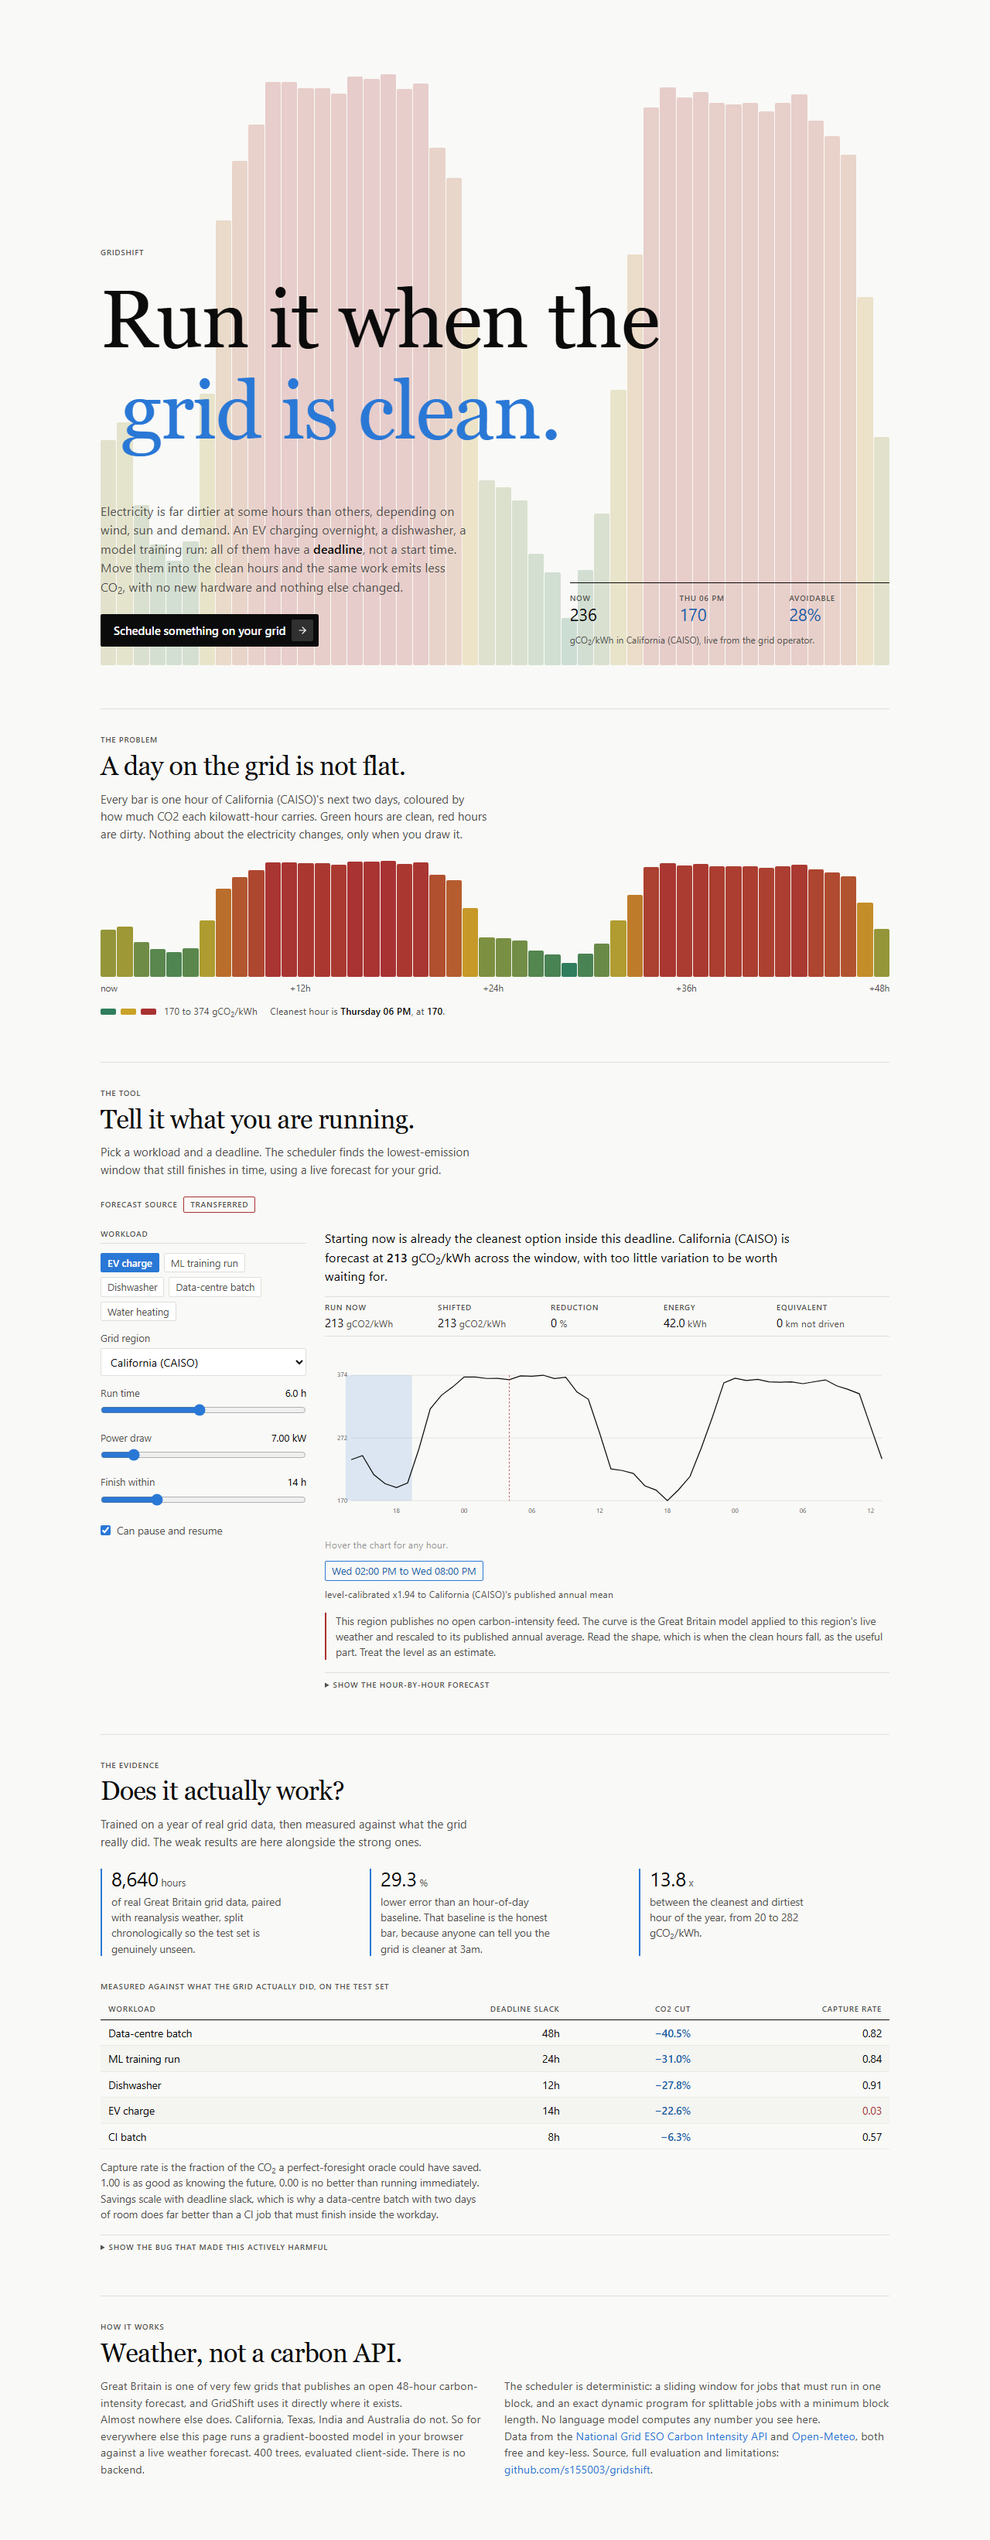
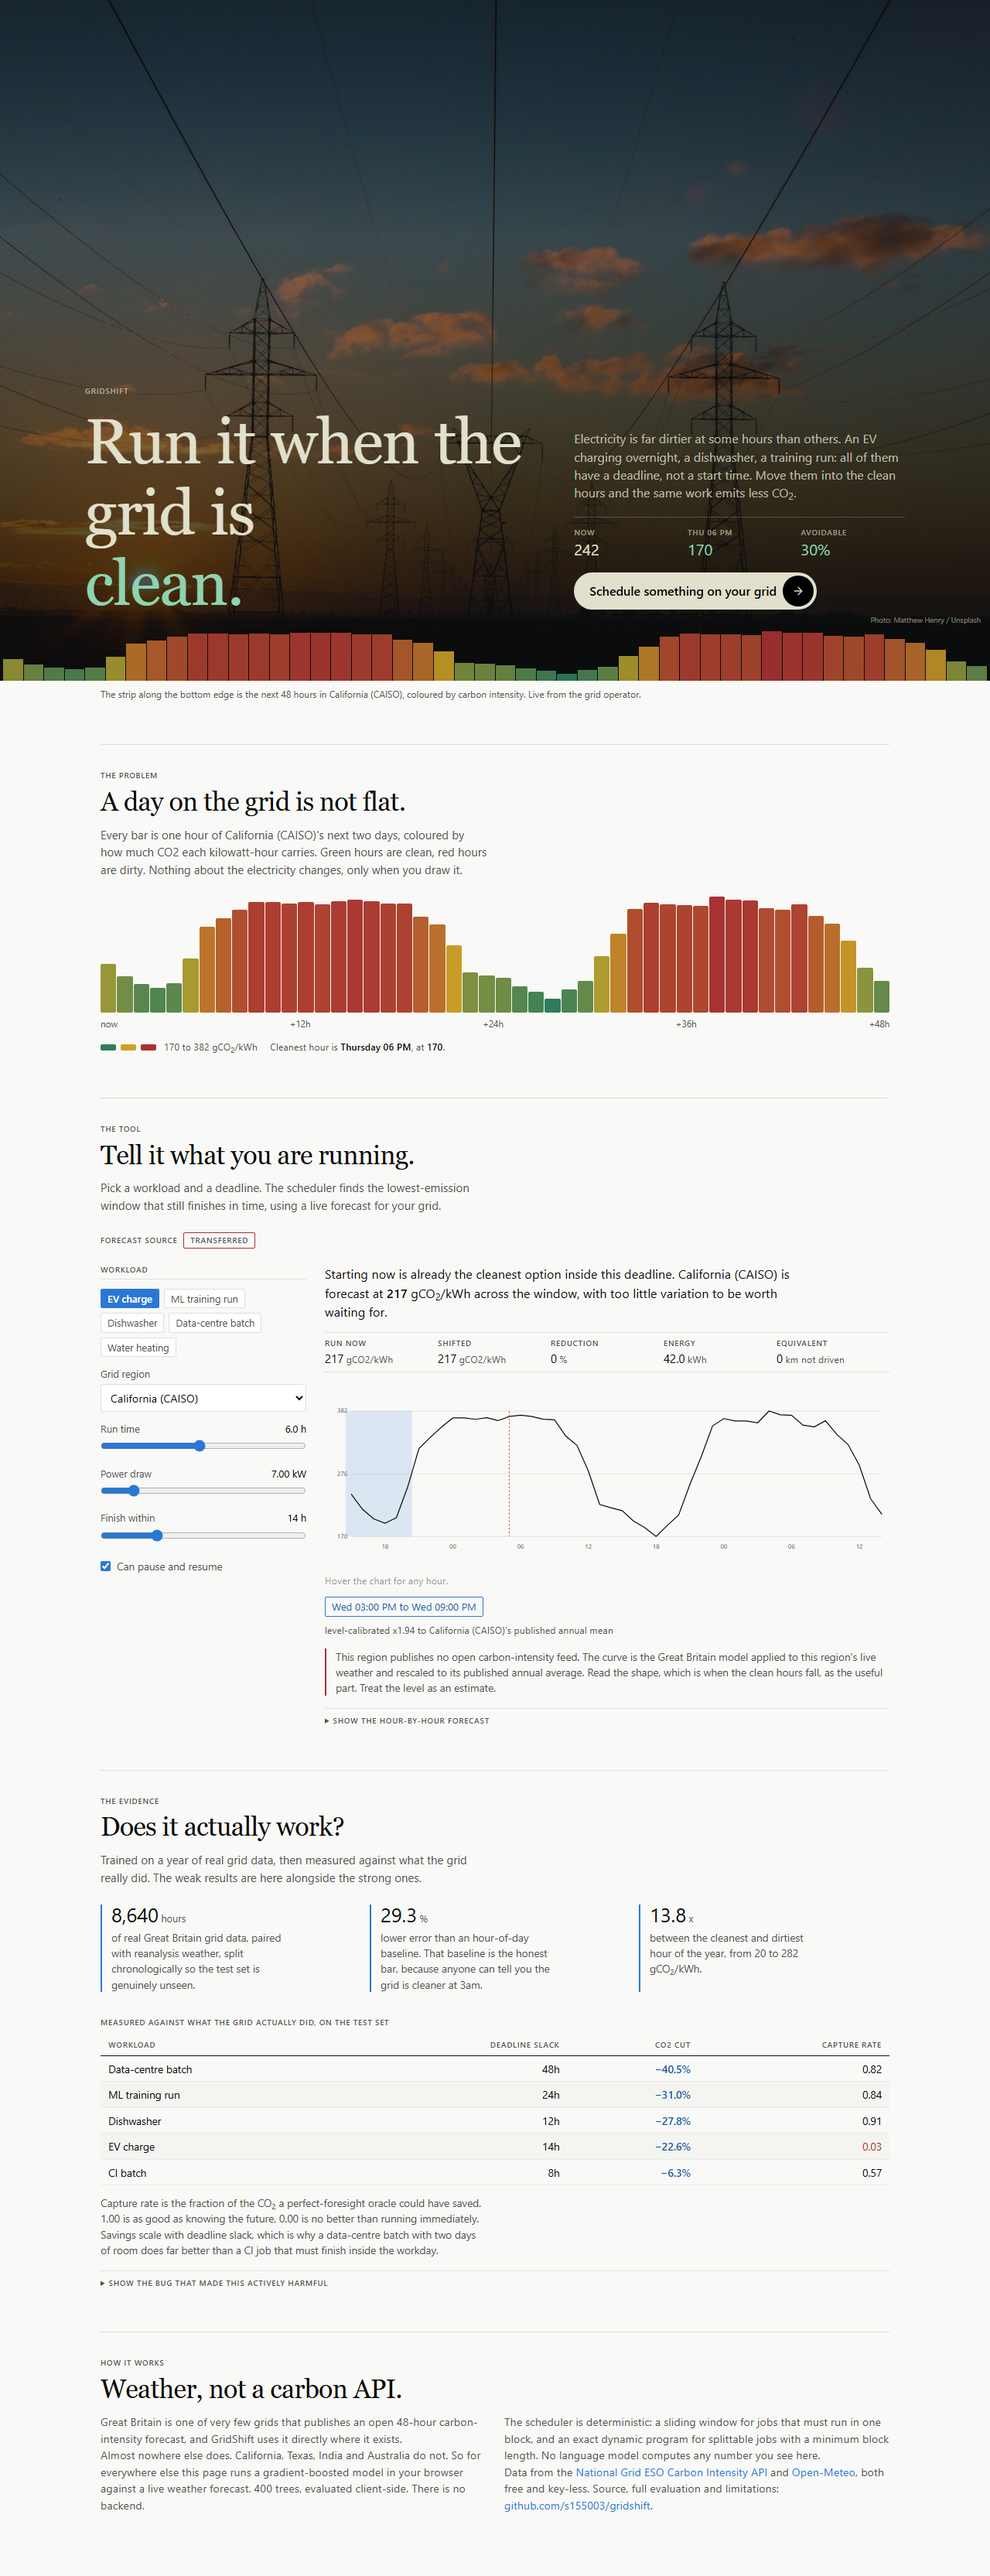
Give the hero the full dark cinematic treatment from PrismaHero
The previous integration took Prisma's structure but kept the light plane, so
it landed far more restrained than the component actually looks. Seeing the
real 21st.dev preview made the gap obvious.

Now full-bleed and dark, edge to edge outside the content column: photograph,
oversized cream serif via WordsPullUp, copy and stats column on the right,
pill CTA with the arrow badge.

Two things keep it from being atmosphere for its own sake. The photograph is
high-voltage transmission towers at dusk, so the imagery is the subject rather
than decoration, and its URL was resolved through Unsplash's download redirect
and verified reachable rather than guessed from a photo ID. And the bottom edge
carries the live 48-hour carbon curve for the reader's grid, tinted by
intensity, so the most eye-catching thing on the page is still a real
measurement.

The single gradient is a scrim for legibility over an image whose brightness we
do not control. Still no decorative gradients anywhere.

DESIGN-EXCEPTIONS.md section 5 updated to cover the dark plane, the photograph
and the scrim.

diff --git a/web/src/components/Hero.jsx b/web/src/components/Hero.jsx
@@ -4,15 +4,27 @@ import { WordsPullUp } from "./ui/prisma-hero.jsx";
 import { intensityColor } from "../lib/scale.js";
 import AnimatedNumber from "./AnimatedNumber.jsx";
 
-/* The hero borrows PrismaHero's structure from 21st.dev: oversized display
- * type, content anchored to the bottom, a full-bleed backdrop running behind
- * it, and a word-by-word arrival on the headline via its WordsPullUp.
+/* Dark cinematic hero, following PrismaHero from 21st.dev: full-bleed imagery,
+ * oversized display type anchored to the bottom, a copy and CTA column on the
+ * right, and WordsPullUp staggering the headline.
  *
- * What it does not borrow is the stock video. Prisma's backdrop is decorative
- * footage; GridShift already has something with more claim to the space, which
- * is the live carbon curve for the reader's own grid. Same visual weight,
- * except the moving thing behind the headline is the argument itself.
+ * Two departures from the original, both deliberate:
+ *
+ * The photograph is transmission towers at dusk, so the imagery is the subject
+ * rather than decoration. Prisma's backdrop could have been anything.
+ *
+ * The live carbon curve runs along the bottom edge as a luminous strip, tinted
+ * by intensity. The hero therefore still carries real data from the reader's
+ * own grid rather than being purely atmospheric.
  */
+
+// Resolved from Unsplash and verified reachable rather than guessed.
+// "Photo of truss towers", Matthew Henry. unsplash.com/photos/yETqkLnhsUI
+const BACKDROP =
+  "https://images.unsplash.com/photo-1473341304170-971dccb5ac1e?w=1920&q=72&fm=jpg&fit=crop";
+
+const CREAM = "#E1E0CC";
+
 export default function Hero({ forecast, regionName, onStart }) {
   const reduce = useReducedMotion();
 
@@ -35,105 +47,146 @@ export default function Hero({ forecast, regionName, onStart }) {
       };
 
   return (
-    <section className="relative min-h-[86vh] flex flex-col justify-end pb-6 pt-16">
-      {/* Backdrop: the live forecast, full bleed behind the type. */}
-      {forecast && (
+    <section className="relative mb-2">
+      <div className="relative h-[88vh] min-h-[560px] w-full overflow-hidden bg-ink">
+        <img
+          src={BACKDROP}
+          alt="High-voltage transmission towers silhouetted against a dusk sky"
+          className="absolute inset-0 h-full w-full object-cover"
+          loading="eager"
+          fetchPriority="high"
+        />
+
+        {/* Scrim. Functional rather than decorative: display type has to stay
+            legible over a photograph whose brightness we do not control. */}
         <div
-          className="pointer-events-none absolute inset-x-0 bottom-0 top-24 flex items-end gap-px opacity-[0.22]"
-          aria-hidden="true"
-        >
-          {forecast.values.map((v, i) => {
-            const pct = 8 + ((v - stats.lo) / Math.max(stats.hi - stats.lo, 1)) * 92;
-            return (
-              <motion.div
-                key={i}
-                className="flex-1 origin-bottom rounded-xs"
-                style={{ background: intensityColor(v, stats.lo, stats.hi), height: `${pct}%` }}
-                initial={reduce ? false : { scaleY: 0 }}
-                animate={{ scaleY: 1 }}
-                transition={{ duration: 0.7, delay: reduce ? 0 : Math.min(i * 0.008, 0.4), ease: [0.16, 1, 0.3, 1] }}
-              />
-            );
-          })}
+          className="pointer-events-none absolute inset-0"
+          style={{
+            background:
+              "linear-gradient(to bottom, rgba(8,10,12,0.55) 0%, rgba(8,10,12,0.25) 35%, rgba(8,10,12,0.88) 100%)",
+          }}
+        />
+
+        {/* Live carbon curve along the bottom edge. The hero still carries data. */}
+        {forecast && (
+          <div className="pointer-events-none absolute inset-x-0 bottom-0 flex h-16 items-end gap-px px-1 opacity-90">
+            {forecast.values.map((v, i) => {
+              const pct = 14 + ((v - stats.lo) / Math.max(stats.hi - stats.lo, 1)) * 86;
+              return (
+                <motion.div
+                  key={i}
+                  className="flex-1 origin-bottom"
+                  style={{ background: intensityColor(v, stats.lo, stats.hi), height: `${pct}%` }}
+                  initial={reduce ? false : { scaleY: 0 }}
+                  animate={{ scaleY: 1 }}
+                  transition={{
+                    duration: 0.7,
+                    delay: reduce ? 0 : 0.5 + Math.min(i * 0.008, 0.4),
+                    ease: [0.16, 1, 0.3, 1],
+                  }}
+                />
+              );
+            })}
+          </div>
+        )}
+
+        {/* Content, anchored to the bottom as in the original */}
+        <div className="absolute inset-x-0 bottom-0 px-5 pb-20 sm:px-8 md:px-10">
+          <div className="mx-auto max-w-[1060px]">
+            <motion.p {...rise} className="label mb-3" style={{ color: "rgba(225,224,204,0.65)" }}>
+              GridShift
+            </motion.p>
+
+            <div className="grid grid-cols-12 items-end gap-6">
+              <div className="col-span-12 lg:col-span-7">
+                <h1
+                  className="display m-0 leading-[0.88] tracking-[-0.04em] text-[12vw] sm:text-[10vw] lg:text-[6.4vw]"
+                  style={{ color: CREAM }}
+                  aria-label="Run it when the grid is clean."
+                >
+                  <span aria-hidden="true">
+                    <WordsPullUp text="Run it when the grid is" />{" "}
+                    <span style={{ color: "#8fd3b0" }}>
+                      <WordsPullUp text="clean." />
+                    </span>
+                  </span>
+                </h1>
+              </div>
+
+              <div className="col-span-12 flex flex-col gap-5 lg:col-span-5 lg:pb-3">
+                <motion.p
+                  {...rise}
+                  transition={{ ...rise.transition, delay: reduce ? 0 : 0.5 }}
+                  className="text-[0.95rem] sm:text-base"
+                  style={{ color: "rgba(225,224,204,0.78)", lineHeight: 1.45 }}
+                >
+                  Electricity is far dirtier at some hours than others. An EV charging overnight,
+                  a dishwasher, a training run: all of them have a deadline, not a start time.
+                  Move them into the clean hours and the same work emits less CO<sub>2</sub>.
+                </motion.p>
+
+                {stats && (
+                  <motion.dl
+                    {...rise}
+                    transition={{ ...rise.transition, delay: reduce ? 0 : 0.6 }}
+                    className="m-0 grid grid-cols-3 gap-3 border-t pt-3"
+                    style={{ borderColor: "rgba(225,224,204,0.25)" }}
+                  >
+                    {[
+                      { k: "Now", v: stats.now, tone: CREAM },
+                      {
+                        k: stats.when.toLocaleString([], { weekday: "short", hour: "2-digit" }),
+                        v: stats.lo,
+                        tone: "#8fd3b0",
+                      },
+                      { k: "Avoidable", v: stats.cut, tone: "#8fd3b0", suffix: "%" },
+                    ].map((s) => (
+                      <div key={s.k}>
+                        <dt className="label mb-1" style={{ color: "rgba(225,224,204,0.6)" }}>
+                          {s.k}
+                        </dt>
+                        <dd className="m-0 text-[1.25rem] tnum leading-none" style={{ color: s.tone }}>
+                          <AnimatedNumber value={s.v} />
+                          {s.suffix}
+                        </dd>
+                      </div>
+                    ))}
+                  </motion.dl>
+                )}
+
+                <motion.button
+                  {...rise}
+                  transition={{ ...rise.transition, delay: reduce ? 0 : 0.7 }}
+                  type="button"
+                  onClick={onStart}
+                  className="group inline-flex items-center gap-2 self-start rounded-full py-1 pl-5 pr-1 text-sm font-semibold text-black transition-all hover:gap-3 sm:text-base"
+                  style={{ background: CREAM }}
+                >
+                  Schedule something on your grid
+                  <span className="flex h-9 w-9 items-center justify-center rounded-full bg-black transition-transform group-hover:scale-110 sm:h-10 sm:w-10">
+                    <ArrowRight className="h-4 w-4" style={{ color: CREAM }} />
+                  </span>
+                </motion.button>
+              </div>
+            </div>
+          </div>
         </div>
-      )}
 
-      <div className="relative">
-        <motion.p {...rise} className="label mb-5">
-          GridShift
-        </motion.p>
-
-        <h1
-          className="display m-0 leading-[0.86] tracking-[-0.04em] text-[13vw] md:text-[9.5vw] lg:text-[8.2vw]"
-          aria-label="Run it when the grid is clean."
+        {/* Sits above the curve strip rather than colliding with it. */}
+        <p
+          className="absolute right-3 text-[0.6rem] z-10"
+          style={{ bottom: "4.5rem", color: "rgba(225,224,204,0.5)" }}
         >
-          <span aria-hidden="true">
-            <WordsPullUp text="Run it when the" />
-            <span className="text-accent">
-              <WordsPullUp text=" grid is clean." />
-            </span>
-          </span>
-        </h1>
-
-        <div className="mt-9 grid grid-cols-12 items-end gap-5">
-          <motion.div
-            {...rise}
-            transition={{ ...rise.transition, delay: reduce ? 0 : 0.45 }}
-            className="col-span-12 lg:col-span-7"
-          >
-            <p className="text-[1.02rem] max-w-[54ch] text-ink-2">
-              Electricity is far dirtier at some hours than others, depending on wind, sun and
-              demand. An EV charging overnight, a dishwasher, a model training run: all of them
-              have a <b className="text-ink font-semibold">deadline</b>, not a start time. Move
-              them into the clean hours and the same work emits less CO<sub>2</sub>, with no new
-              hardware and nothing else changed.
-            </p>
-
-            <button
-              type="button"
-              onClick={onStart}
-              className="group mt-6 inline-flex items-center gap-2 rounded-xs border border-ink bg-ink py-1.5 pl-4 pr-1.5 text-[0.92rem] font-semibold text-white transition-all hover:gap-3 hover:bg-accent hover:border-accent"
-            >
-              Schedule something on your grid
-              <span className="flex h-7 w-7 items-center justify-center rounded-xs bg-white/15 transition-transform group-hover:translate-x-0.5">
-                <ArrowRight className="h-3.5 w-3.5" />
-              </span>
-            </button>
-          </motion.div>
-
-          {stats && (
-            <motion.dl
-              {...rise}
-              transition={{ ...rise.transition, delay: reduce ? 0 : 0.55 }}
-              className="col-span-12 lg:col-span-5 m-0 border-t border-ink pt-3 grid grid-cols-3 gap-3"
-            >
-              <div>
-                <dt className="label mb-1">Now</dt>
-                <dd className="m-0 text-[1.35rem] tnum leading-none">
-                  <AnimatedNumber value={stats.now} />
-                </dd>
-              </div>
-              <div>
-                <dt className="label mb-1">
-                  {stats.when.toLocaleString([], { weekday: "short", hour: "2-digit" })}
-                </dt>
-                <dd className="m-0 text-[1.35rem] tnum leading-none text-pos">
-                  <AnimatedNumber value={stats.lo} />
-                </dd>
-              </div>
-              <div>
-                <dt className="label mb-1">Avoidable</dt>
-                <dd className="m-0 text-[1.35rem] tnum leading-none text-pos">
-                  <AnimatedNumber value={stats.cut} />%
-                </dd>
-              </div>
-              <p className="col-span-3 m-0 text-[0.75rem] text-ink-2">
-                gCO<sub>2</sub>/kWh in {regionName}, live from the grid operator.
-              </p>
-            </motion.dl>
-          )}
-        </div>
+          Photo: Matthew Henry / Unsplash
+        </p>
       </div>
+
+      {stats && (
+        <p className="mx-auto max-w-[1060px] px-5 pt-2 text-[0.75rem] text-ink-2">
+          The strip along the bottom edge is the next 48 hours in {regionName}, coloured by
+          carbon intensity. Live from the grid operator.
+        </p>
+      )}
     </section>
   );
 }

diff --git a/web/src/App.jsx b/web/src/App.jsx
@@ -88,14 +88,16 @@ export default function App() {
   const notice = error ?? scheduleError;
 
   return (
-    <div className="max-w-[1060px] mx-auto px-5 pb-20">
+    <>
+      {/* The hero sits outside the content column so it can run edge to edge. */}
       <Hero
         forecast={forecast}
         regionName={regionName}
         onStart={() => toolRef.current?.scrollIntoView({ behavior: "smooth", block: "start" })}
       />
 
-      <Section
+      <div className="max-w-[1060px] mx-auto px-5 pb-20">
+        <Section
         label="The problem"
         title="A day on the grid is not flat."
         lede={
@@ -247,7 +249,8 @@ export default function App() {
             </p>
           </div>
         </div>
-      </Section>
-    </div>
+        </Section>
+      </div>
+    </>
   );
 }

diff --git a/DESIGN-EXCEPTIONS.md b/DESIGN-EXCEPTIONS.md
@@ -97,20 +97,34 @@ Word-by-word at 80ms is a single arrival, not a per-character flourish, and it
 resolves in well under a second. The ban was aimed at reveals that hold text
 hostage to an effect.
 
-**What was deliberately not taken from it**, because these are the parts that
-read as generated:
+**Also suspended here:** light page plane, and the ban on gradients.
+
+The hero is dark, full-bleed, and carries a photograph. Two things make that a
+considered choice rather than atmosphere for its own sake:
+
+- **The photograph is the subject.** It is high-voltage transmission towers at
+  dusk. Prisma's backdrop could have been any footage; this one is the thing
+  the product is about. Sourced from Unsplash, credited in the corner, and the
+  URL was resolved and verified reachable rather than guessed.
+- **The hero still carries live data.** The bottom edge is the next 48 hours
+  for the reader's grid, tinted by intensity. The most eye-catching element on
+  the page is a real measurement.
+
+The one gradient is a bottom-weighted scrim over the photograph. It is
+functional: display type has to stay legible over an image whose brightness we
+do not control. No decorative gradient exists anywhere on the page.
+
+**What was still not taken:**
 
 | In PrismaHero | Why not |
 |---|---|
-| Full-bleed stock video backdrop | Decorative footage with no relationship to the content. GridShift already has something with a better claim to that space: the live carbon curve for the reader's own grid. The backdrop is real data. |
-| `bg-gradient-to-b` overlay | Gradients are still banned and it exists only to make video legible |
-| `rounded-2xl` / `rounded-[2rem]` | Radii stay at 2px |
+| `rounded-2xl` / `rounded-[2rem]` | Radii stay at 2px outside the pill CTA |
 | Noise overlay, `mix-blend-overlay` | Texture for its own sake |
 | Navbar, "Join the lab", agency copy | Another product's content |
+| The CloudFront video | Not ours to serve from a published page |
 
-`PrismaHero` itself is kept in the file unmodified for reference and is never
-mounted. It hotlinks a third-party CloudFront asset, which is not ours to
-serve from a published page.
+`PrismaHero` itself is kept in `src/components/ui/prisma-hero.jsx` unmodified
+for reference and is never mounted.
 
 ---
 
